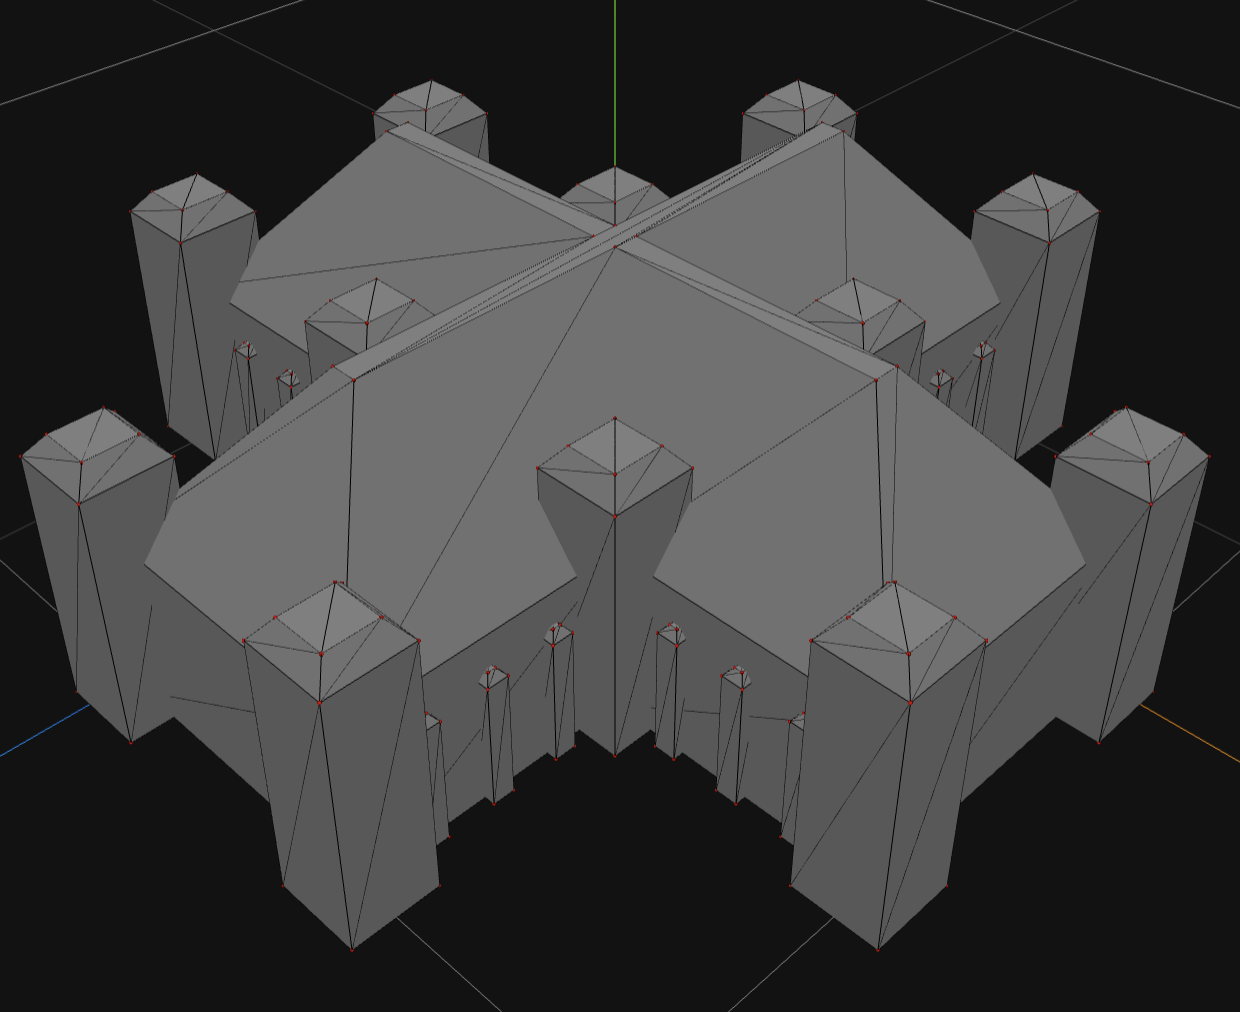
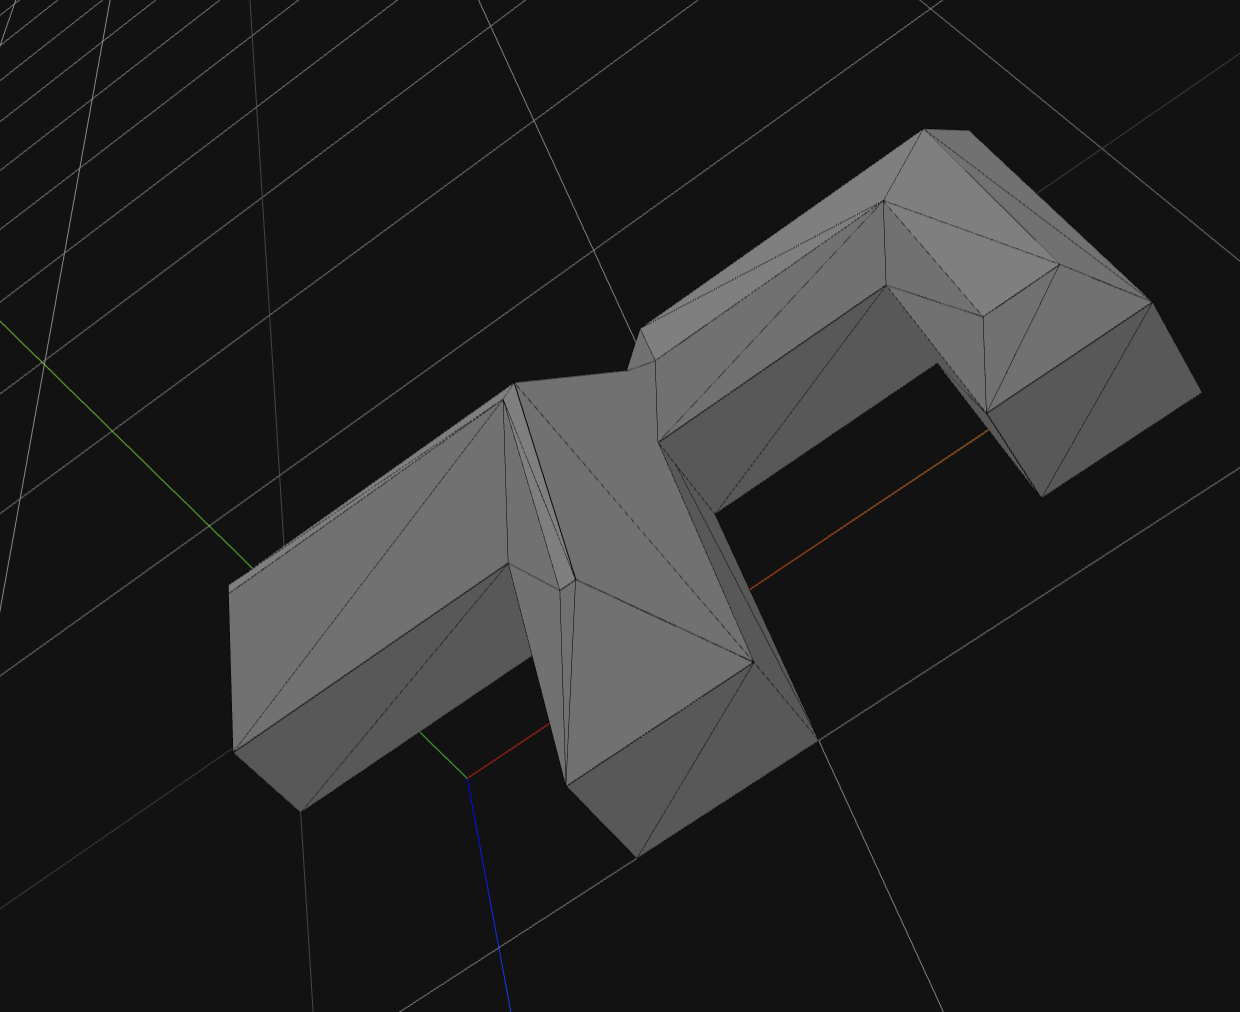
genarchitecture: Move building generation from gengeometry

diff --git a/gengeometry/cmd/runner.go b/gengeometry/cmd/runner.go
@@ -141,90 +141,4 @@ func main() {
 
 	// Save the squircle to a file.
 	gengeometry.SavePathAsPNG(squirclePath.GetPath(), "testpath.png", 100)
-
-	generateProcBuilding()
-}
-
-func generateProcBuilding() {
-	// Generate a path for a building.
-	procCrossPath := gengeometry.PlusShape{
-		Width:     1,
-		Length:    1,
-		WingWidth: 0.35,
-	}
-
-	// Generate a mesh from a path.
-	path := procCrossPath.GetPath()
-	mesh, err := gengeometry.ExtrudePath(path, 0.2)
-	if err != nil {
-		log.Fatal(err)
-	}
-	roofMesh, err := gengeometry.TaperPath(path, 0.2)
-	if err != nil {
-		log.Println(err)
-	} else {
-		mesh.AddMesh(roofMesh, vectors.NewVec3(0, 0, 0.2))
-	}
-
-	// Now iterate over the sides and add a cylinder to each side.
-	for i, s := range gengeometry.GetPathSides(path) {
-		corner := gengeometry.RectangleShape{
-			Width:  0.1,
-			Length: 0.1,
-		}
-		heightCorner := 0.3
-		cornerPath := corner.GetPath()
-		cornerMesh, err := gengeometry.ExtrudePath(cornerPath, heightCorner)
-		if err != nil {
-			log.Println(err)
-		} else {
-			// Add the corner to the mesh.
-			mesh.AddMesh(cornerMesh, vectors.NewVec3(s.Start.X-corner.Width/2, s.Start.Y-corner.Length/2, 0))
-		}
-
-		// Add a roof to the corner.
-		roofMesh, err := gengeometry.TaperPath(cornerPath, 0.025)
-		if err != nil {
-			log.Println(err)
-		} else {
-			mesh.AddMesh(roofMesh, vectors.NewVec3(s.Start.X-corner.Width/2, s.Start.Y-corner.Length/2, heightCorner))
-		}
-
-		if i%3 == 0 {
-			continue
-		}
-
-		// Add support struts in the middle of each side.
-		strutPath := gengeometry.RectangleShape{
-			Width:  0.025,
-			Length: 0.025,
-		}
-
-		midPoint := s.Start.Add(s.End).Mul(0.5)
-
-		// We add two struts.
-		midPointA := s.Start.Add(midPoint).Mul(0.5)
-		midPointB := midPoint.Add(s.End).Mul(0.5)
-
-		for _, midP := range []vectors.Vec2{midPointA, midPointB, midPoint} {
-			strutMesh, err := gengeometry.ExtrudePath(strutPath.GetPath(), 0.15)
-			if err != nil {
-				log.Println(err)
-			} else {
-				// Add the strut to the mesh.
-				mesh.AddMesh(strutMesh, vectors.NewVec3(midP.X-strutPath.Width/2, midP.Y-strutPath.Length/2, 0))
-			}
-
-			// Add a roof to the strut.
-			roofMesh, err = gengeometry.TaperPath(strutPath.GetPath(), 0.01)
-			if err != nil {
-				log.Println(err)
-			} else {
-				mesh.AddMesh(roofMesh, vectors.NewVec3(midP.X-strutPath.Width/2, midP.Y-strutPath.Length/2, 0.15))
-			}
-		}
-	}
-
-	// Save the mesh to a file.
-	mesh.ExportToObj("test_2.obj")
 }

diff --git a/genarchitecture/buildings.go b/genarchitecture/buildings.go
@@ -1,0 +1,92 @@
+package genarchitecture
+
+import (
+	"log"
+
+	"github.com/Flokey82/go_gens/gengeometry"
+	"github.com/Flokey82/go_gens/vectors"
+)
+
+func GenerateSampleCathedral() {
+	// Generate a path for a building.
+	procCrossPath := gengeometry.PlusShape{
+		Width:     1,
+		Length:    1,
+		WingWidth: 0.35,
+	}
+
+	// Generate a mesh from a path.
+	path := procCrossPath.GetPath()
+	mesh, err := gengeometry.ExtrudePath(path, 0.2)
+	if err != nil {
+		log.Fatal(err)
+	}
+	roofMesh, err := gengeometry.TaperPath(path, 0.2)
+	if err != nil {
+		log.Println(err)
+	} else {
+		mesh.AddMesh(roofMesh, vectors.NewVec3(0, 0, 0.2))
+	}
+
+	// Now iterate over the sides and add a cylinder to each side.
+	for i, s := range gengeometry.GetPathSides(path) {
+		corner := gengeometry.RectangleShape{
+			Width:  0.1,
+			Length: 0.1,
+		}
+		heightCorner := 0.3
+		cornerPath := corner.GetPath()
+		cornerMesh, err := gengeometry.ExtrudePath(cornerPath, heightCorner)
+		if err != nil {
+			log.Println(err)
+		} else {
+			// Add the corner to the mesh.
+			mesh.AddMesh(cornerMesh, vectors.NewVec3(s.Start.X-corner.Width/2, s.Start.Y-corner.Length/2, 0))
+		}
+
+		// Add a roof to the corner.
+		roofMesh, err := gengeometry.TaperPath(cornerPath, 0.025)
+		if err != nil {
+			log.Println(err)
+		} else {
+			mesh.AddMesh(roofMesh, vectors.NewVec3(s.Start.X-corner.Width/2, s.Start.Y-corner.Length/2, heightCorner))
+		}
+
+		if i%3 == 0 {
+			continue
+		}
+
+		// Add support struts in the middle of each side.
+		strutPath := gengeometry.RectangleShape{
+			Width:  0.025,
+			Length: 0.025,
+		}
+
+		midPoint := s.Start.Add(s.End).Mul(0.5)
+
+		// We add two struts.
+		midPointA := s.Start.Add(midPoint).Mul(0.5)
+		midPointB := midPoint.Add(s.End).Mul(0.5)
+
+		for _, midP := range []vectors.Vec2{midPointA, midPointB, midPoint} {
+			strutMesh, err := gengeometry.ExtrudePath(strutPath.GetPath(), 0.15)
+			if err != nil {
+				log.Println(err)
+			} else {
+				// Add the strut to the mesh.
+				mesh.AddMesh(strutMesh, vectors.NewVec3(midP.X-strutPath.Width/2, midP.Y-strutPath.Length/2, 0))
+			}
+
+			// Add a roof to the strut.
+			roofMesh, err = gengeometry.TaperPath(strutPath.GetPath(), 0.01)
+			if err != nil {
+				log.Println(err)
+			} else {
+				mesh.AddMesh(roofMesh, vectors.NewVec3(midP.X-strutPath.Width/2, midP.Y-strutPath.Length/2, 0.15))
+			}
+		}
+	}
+
+	// Save the mesh to a file.
+	mesh.ExportToObj("test_2.obj")
+}

diff --git a/genarchitecture/cmd/runner.go b/genarchitecture/cmd/runner.go
@@ -10,4 +10,7 @@ func main() {
 	st := genarchitecture.GenerateStyle(genarchitecture.Materials)
 	st.ExportSvg("test.svg")
 	log.Println(st.Description())
+
+	// Generate a sample building.
+	genarchitecture.GenerateSampleCathedral()
 }

diff --git a/genarchitecture/README.md b/genarchitecture/README.md
@@ -6,3 +6,10 @@ This will be a package for generating distinct architectural styles.
 
 - [ ] Add weights for probabilities of variations
 - [ ] Add climate aspects, insulation of materials, etc.
+- [ ] Mesh/building generation
+    - [ ] Design a "recipe" concept for generating buildings
+    - [ ] Implement some sample recipes
+
+## Building mesh generation
+
+![alt text](https://raw.githubusercontent.com/Flokey82/go_gens/master/genarchitecture/images/mesh.png "Generated mesh!")
